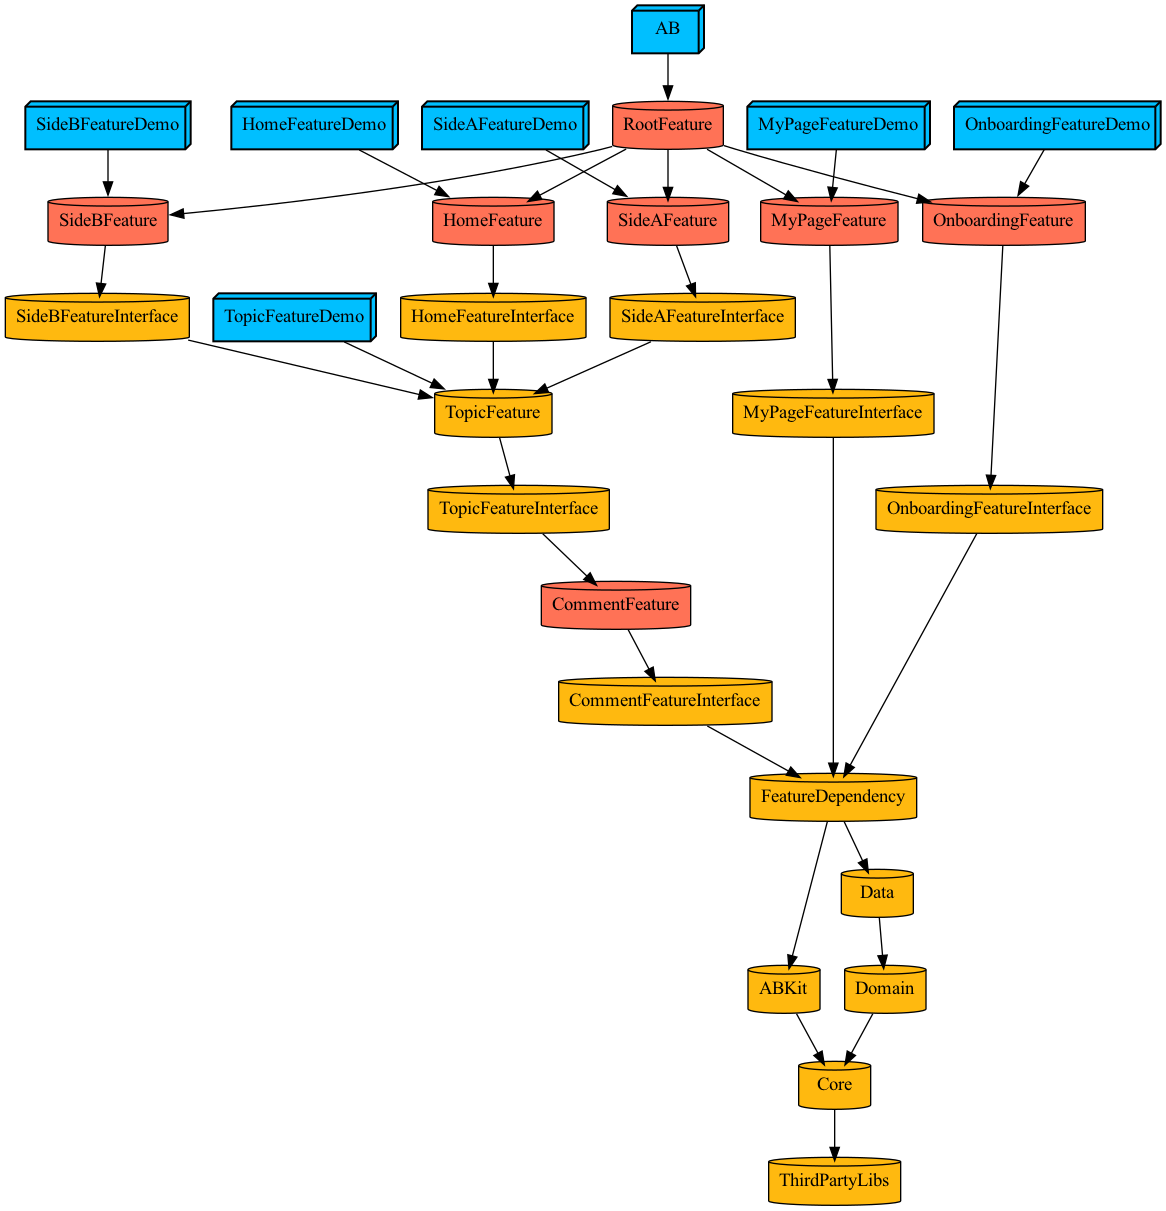
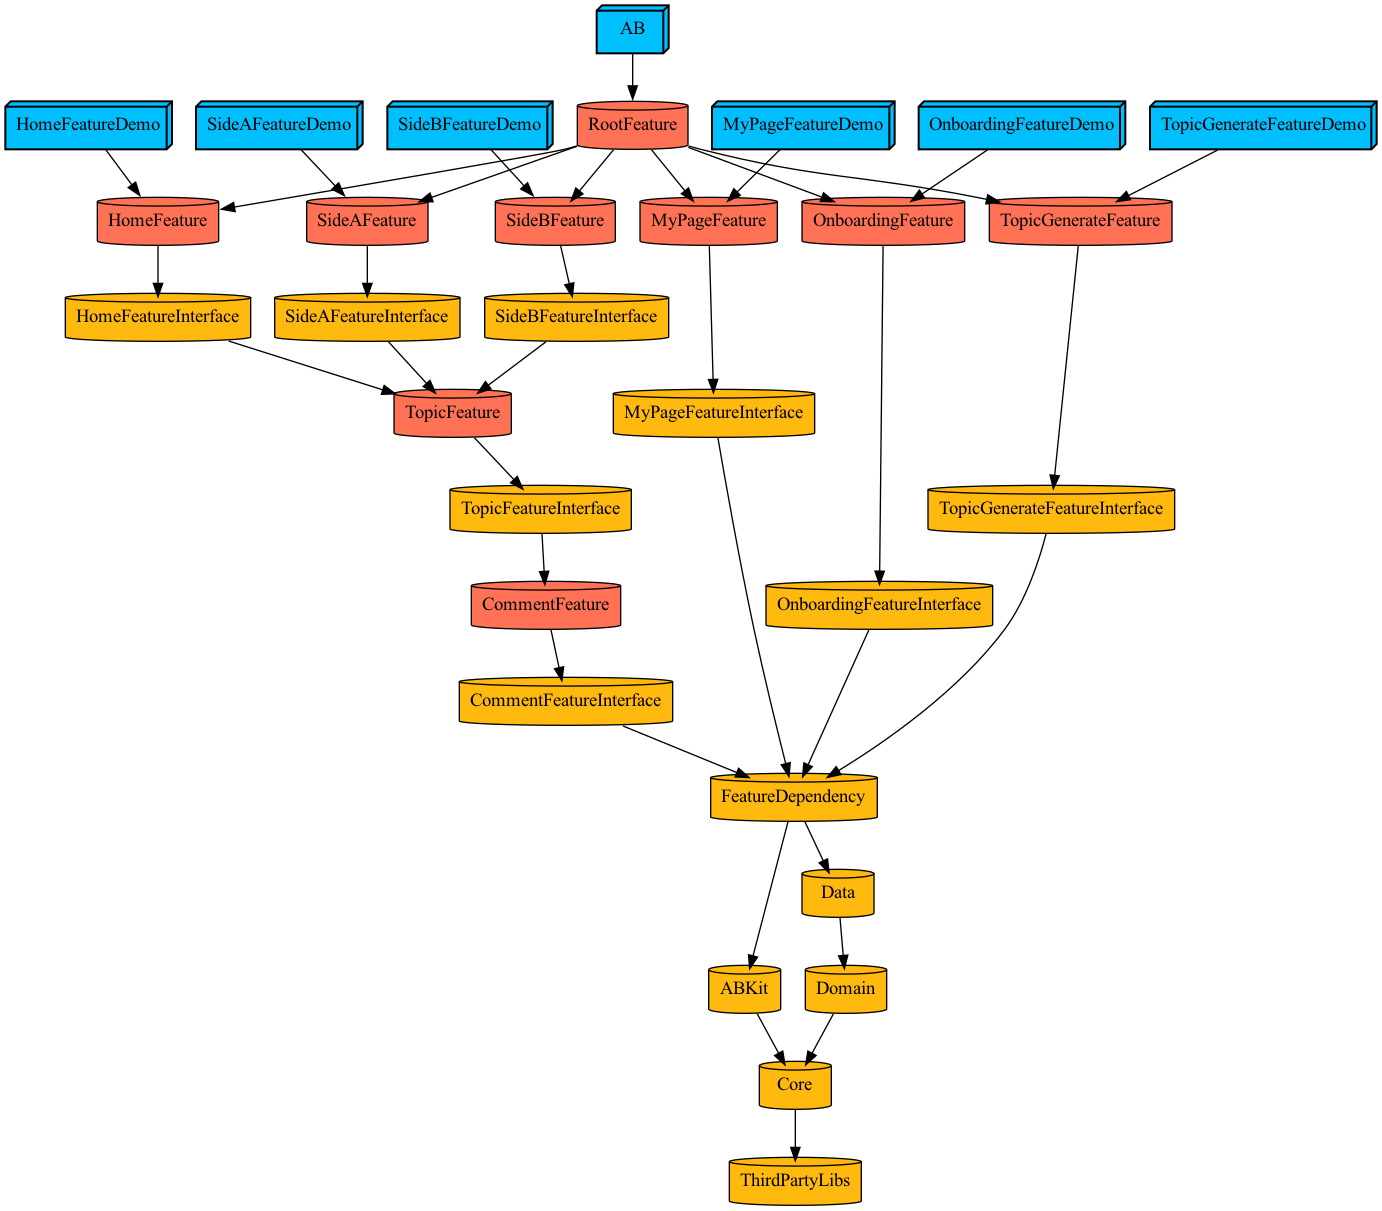
feat: 토픽, 토픽 생성 모듈 분리

Changed region(s): [[0.0, 0.0, 1.0, 0.3666], [0.3087, 0.3666, 0.9571, 0.9166], [0.5249, 0.9472, 0.7719, 1.0]]

diff --git a/Plugins/DependencyPlugin/ProjectDescriptionHelpers/Dependency+Project.swift b/Plugins/DependencyPlugin/ProjectDescriptionHelpers/Dependency+Project.swift
@@ -1,10 +1,3 @@
-//
-//  Dependency+Project.swift
-//  ProjectDescriptionHelpers
-//
-//  Created by sejin on 2022/10/02.
-//
-
 import ProjectDescription
 
 public extension Dep {
@@ -15,6 +8,7 @@ public extension Dep {
         public struct SideA {}
         public struct SideB {}
         public struct Topic {}
+        public struct TopicGenerate {}
         public struct Comment {}
         public struct MyPage {}
     }
@@ -61,6 +55,10 @@ public extension Dep.Features.Home {
 
 public extension Dep.Features.Topic {
     static let Feature = Dep.Features.project(name: Dep.Features.name, group: "Topic")
+}
+
+public extension Dep.Features.TopicGenerate {
+    static let Feature = Dep.Features.project(name: Dep.Features.name, group: "TopicGenerate")
 }
 
 public extension Dep.Features.SideA {

diff --git a/Projects/Features/TopicFeature/Project.swift b/Projects/Features/TopicFeature/Project.swift
@@ -4,6 +4,8 @@ import DependencyPlugin
 
 let project = Project.makeModule(
     name: "TopicFeature",
-    targets: [.unitTest, .dynamicFramework, .demo, .interface],
-    interfaceDependencies: [.Features.Comment.Feature]
+    targets: [.unitTest, .staticFramework, .interface],
+    interfaceDependencies: [
+        .Features.Comment.Feature
+    ]
 )

diff --git a/Projects/Features/TopicGenerateFeature/Project.swift b/Projects/Features/TopicGenerateFeature/Project.swift
@@ -1,0 +1,9 @@
+import ProjectDescription
+import ProjectDescriptionHelpers
+import DependencyPlugin
+
+let project = Project.makeModule(
+    name: "TopicGenerateFeature",
+    targets: [.unitTest, .staticFramework, .demo, .interface],
+    interfaceDependencies: [.Features.FeatureDependency]
+)

diff --git a/Projects/Features/RootFeature/Project.swift b/Projects/Features/RootFeature/Project.swift
@@ -9,6 +9,7 @@ let project = Project.makeModule(
         .Features.Home.Feature,
         .Features.SideA.Feature,
         .Features.SideB.Feature,
+        .Features.TopicGenerate.Feature,
         .Features.Onboarding.Feature,
         .Features.MyPage.Feature
     ]

diff --git a/Projects/Features/TopicFeature/Interface/Interface.swift b/Projects/Features/TopicFeature/Interface/Interface.swift
@@ -1,0 +1,8 @@
+//
+//  Interface.swift
+//  ProjectDescriptionHelpers
+//
+//  Created by 박소윤 on 2024/02/10.
+//
+
+import Foundation

diff --git a/Projects/Features/TopicFeature/Sources/Source.swift b/Projects/Features/TopicFeature/Sources/Source.swift
@@ -1,0 +1,8 @@
+//
+//  Source.swift
+//  ProjectDescriptionHelpers
+//
+//  Created by 박소윤 on 2024/02/10.
+//
+
+import Foundation

diff --git a/Projects/Features/TopicFeature/Tests/Test.swift b/Projects/Features/TopicFeature/Tests/Test.swift
@@ -1,0 +1,8 @@
+//
+//  Test.swift
+//  ProjectDescriptionHelpers
+//
+//  Created by 박소윤 on 2024/02/10.
+//
+
+import Foundation
